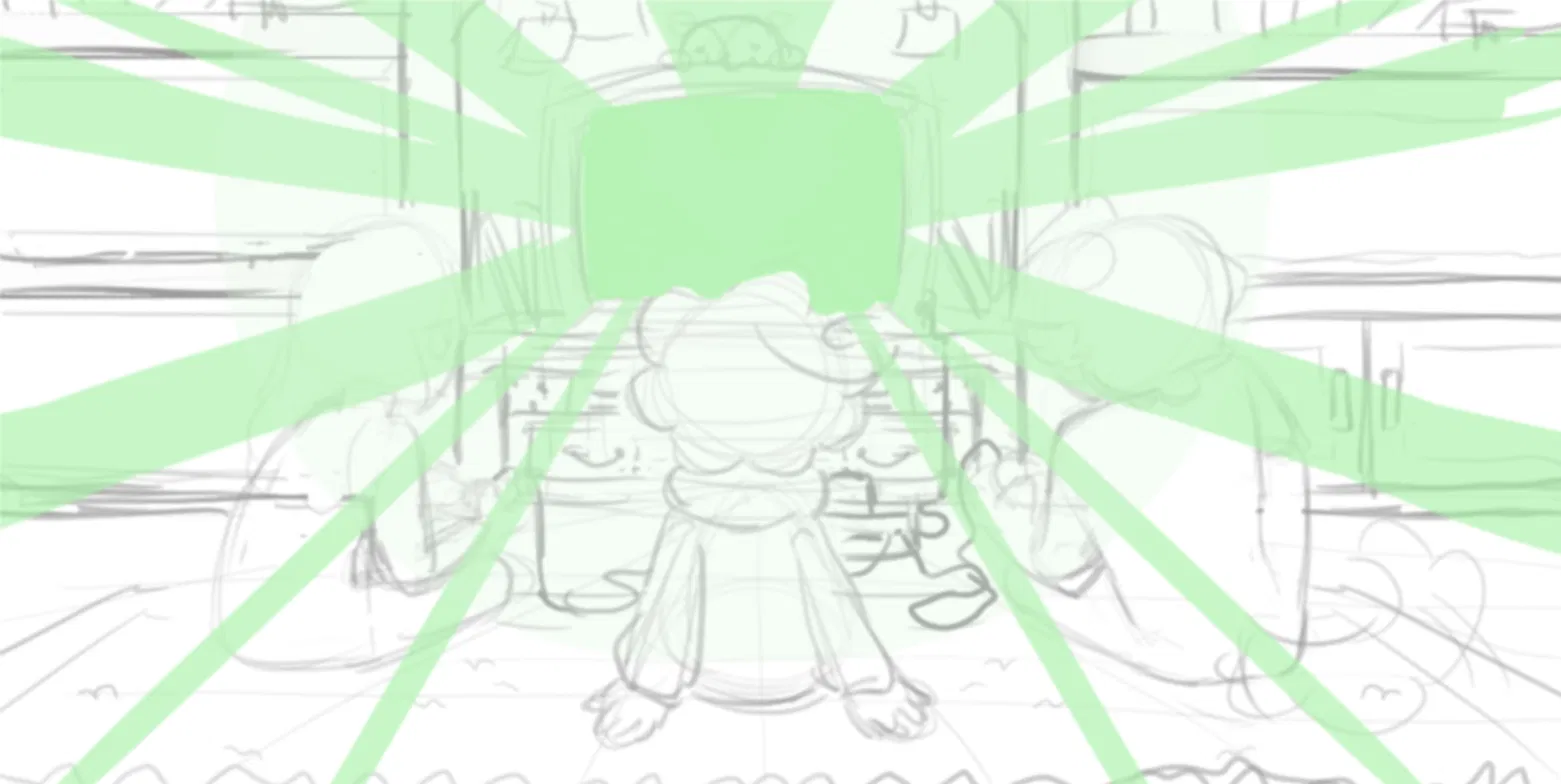
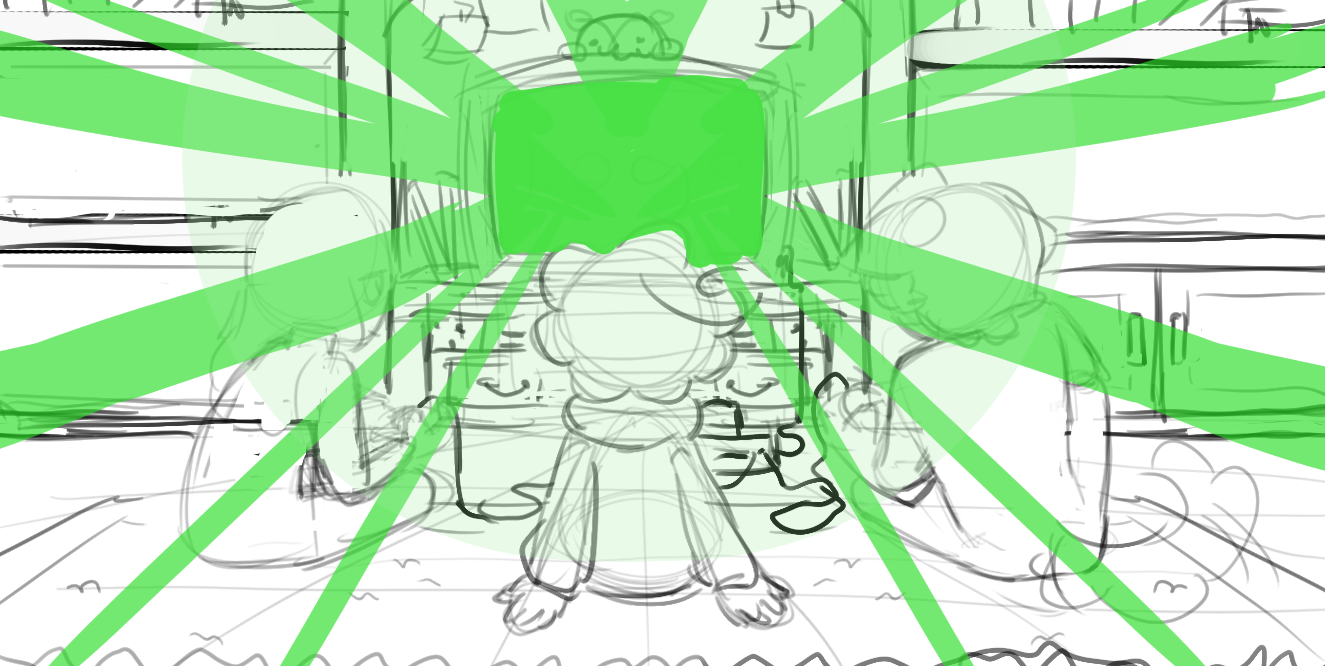
0.9.4.7

diff --git a/front-end/src/components/shared/css/GameShowcase.css b/front-end/src/components/shared/css/GameShowcase.css
@@ -682,3 +682,61 @@
   white-space: nowrap;
   border: 0;
 }
+
+/* ================================================
+   VARIANTE 'home': PERSONAGEM SAINDO DA MOLDURA
+   ================================================
+   No card do meio, a arte fica mais alta que o arco colorido:
+   a cabeça passa por cima do arco e do fundo cinza (até a faixa laranja),
+   e embaixo continua alinhada com o fim do arco.
+
+   Funciona com arte de fundo transparente (PNG ou WEBP); uma imagem com
+   fundo "chapado" sairia como um retângulo para fora do arco.
+
+   --pop: quanto a arte sobe para fora do arco. */
+
+.showcase--home {
+  --pop: 56px;
+}
+
+/* O palco continua cortando dos lados (cards escondidos), mas deixa
+   a cabeça passar por cima. Navegador antigo: fica cortado como antes. */
+@supports (overflow: clip) {
+  .showcase--home .showcase-stage {
+    overflow-x: clip;
+    overflow-y: visible;
+  }
+}
+
+/* A arte é posicionada a partir do pé do arco */
+.showcase--home .showcase-character img {
+  position: absolute;
+  left: 0;
+  bottom: 0;
+  width: 100%;
+  height: 100%;
+  transition: height var(--speed) ease;
+}
+
+/* Card do meio: o arco não corta mais, e a arte cresce para cima */
+.showcase--home .showcase-card.is-center .showcase-character {
+  overflow: visible;
+}
+
+.showcase--home .showcase-card.is-center .showcase-character img {
+  height: calc(100% + var(--pop));
+  /* mantém os cantinhos arredondados de baixo do arco */
+  clip-path: inset(0 round 0 0 8px 8px);
+}
+
+@media (max-width: 860px) {
+  .showcase--home {
+    --pop: 40px;
+  }
+}
+
+@media (prefers-reduced-motion: reduce) {
+  .showcase--home .showcase-character img {
+    transition: none;
+  }
+}

diff --git a/front-end/src/components/shared/Footer.jsx b/front-end/src/components/shared/Footer.jsx
@@ -56,8 +56,30 @@ const quickLinks = [
 ]
 
 // Contato (EXEMPLO: troque pelo e-mail e telefone reais)
+const CONTACT_EMAIL = 'contato@trevo.com'
+
+// Mensagem que já vem escrita quando a pessoa clica no e-mail
+// (abre o programa de e-mail dela com o assunto e o texto preenchidos)
+const EMAIL_SUBJECT = 'Contato pelo site da Trevo Team'
+const EMAIL_BODY = [
+  'Olá, equipe Trevo Team!',
+  '',
+  'Meu nome é [seu nome] e estou entrando em contato sobre:',
+  '(  ) Dúvida geral   (  ) Suporte   (  ) Parceria e marketing   (  ) Imprensa',
+  '',
+  'Mensagem:',
+  '',
+  '',
+  'Obrigado(a)!',
+].join('\r\n') // quebra de linha no formato que os programas de e-mail entendem
+
+// mailto:e-mail?subject=...&body=... (encodeURIComponent troca espaços e acentos por códigos)
+const EMAIL_HREF = `mailto:${CONTACT_EMAIL}?subject=${encodeURIComponent(EMAIL_SUBJECT)}&body=${encodeURIComponent(EMAIL_BODY)}`
+
+
+// Contato (EXEMPLO: troque pelo e-mail e telefone reais)
 const contacts = [
-  { label: 'E-mail', text: 'contato@gmail.com', href: 'mailto:contato@gmail.com' },
+  { label: 'E-mail', text: CONTACT_EMAIL, href: EMAIL_HREF },
   { label: 'Telefone', text: '+14 99119 8597', href: 'tel:+14991198597' },
 ]
 
